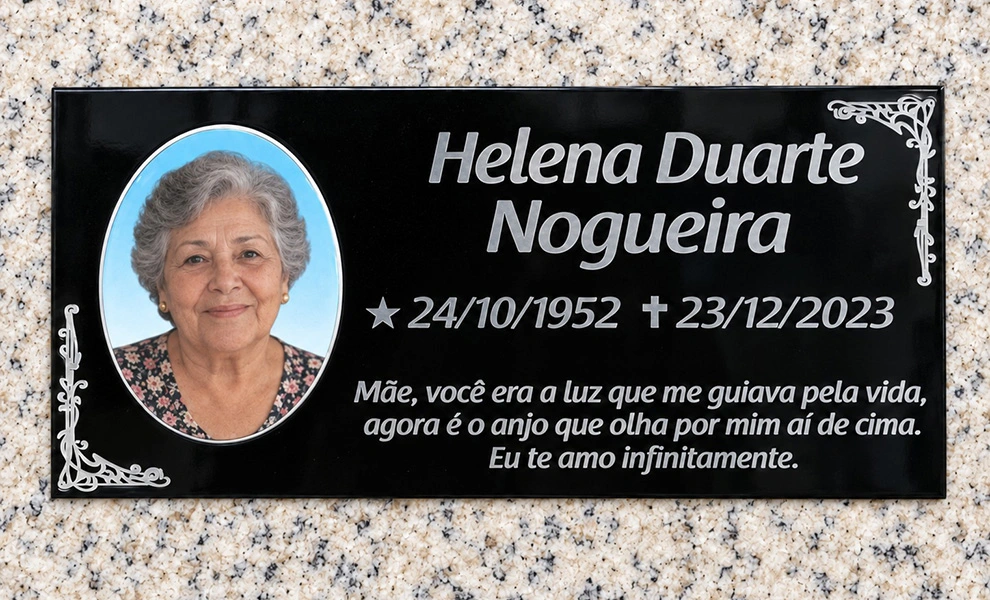
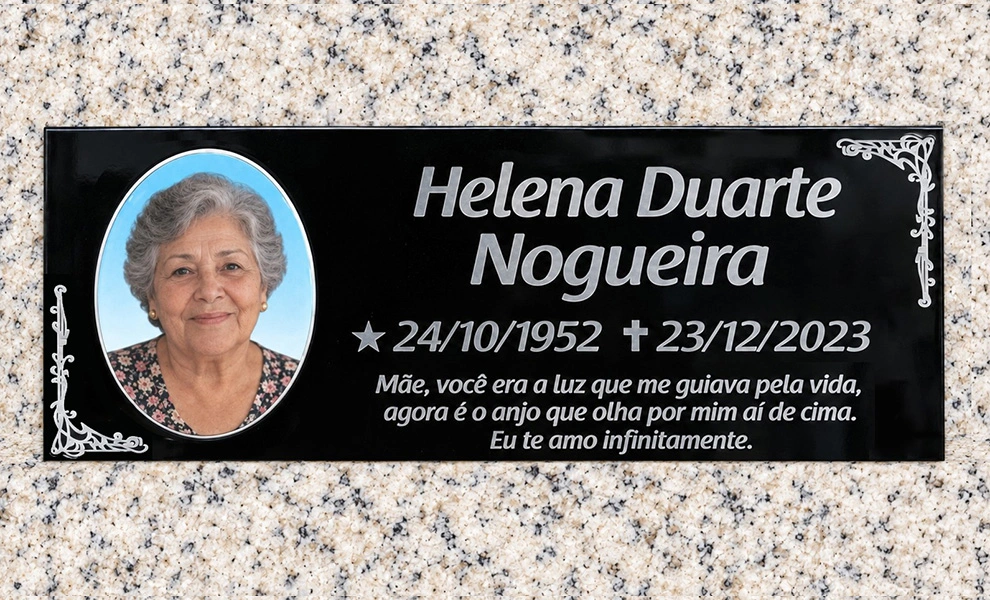
Alteração Imagens Marina 03

diff --git a/produtos-para-tumulos/index.html b/produtos-para-tumulos/index.html
@@ -712,7 +712,7 @@
       <article class="produto-b2c-card">
         <div class="produto-b2c-card__image">
           <img
-            src="/img/produto-acessorios.webp"
+            src="img/produtos/outros-acessorios.webp"
             alt="Crucifixos, símbolos, puxadores e acessórios para túmulos"
             loading="lazy"
           >
